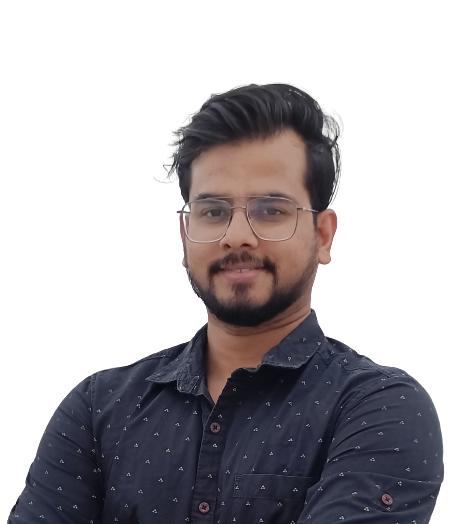
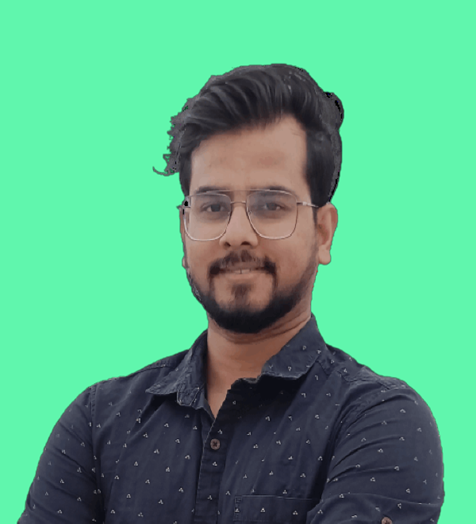
shashank photo edit

diff --git a/about.html b/about.html
@@ -511,8 +511,8 @@
                   </div>
                </div>
             </div>
-            <div class="row">
-               <div class="col-xl-3 col-lg-3 col-md-6 wow tpfadeUp" data-wow-duration=".3s" data-wow-delay=".5s">
+            <div class="row" style="display: flex; justify-content: center; gap: 100px;">
+               <div class="col-xl-6 col-lg-3 col-md-6 wow tpfadeUp" style="height: 300px; width: 300px;" data-wow-duration=".3s" data-wow-delay=".5s">
                   <div class="tpteam mb-30">
                      <div class="tpteam__shape-1">
                         <img src="assets/img/team/team-shape-5.1.png" alt="">
@@ -533,7 +533,7 @@
                      </div>
                   </div>
                </div>
-               <div class="col-xl-3 col-lg-3 col-md-6 wow tpfadeUp" data-wow-duration=".5s" data-wow-delay=".7s">
+               <div class="col-xl-6 col-lg-3 col-md-6 wow tpfadeUp" style="height: 300px; width: 300px; " data-wow-duration=".5s" data-wow-delay=".7s">
                   <div class="tpteam mb-30">
                      <div class="tpteam__shape-1">
                         <img src="assets/img/team/team-shape-5.1.png" alt="">
@@ -541,8 +541,8 @@
                      <div class="tpteam__shape-2">
                         <img src="assets/img/team/team-shape-5.2.png" alt="">
                      </div>
-                     <div class="tpteam__thumb">
-                        <img class="w-100" src="assets/img/team/shashank.jpeg"  alt="">
+                     <div class="tpteam__thumb" >
+                        <img class="w-100"  src="assets/img/team/shashank.jpeg"  alt="">
                      </div>
                      <div class="tpteam__content">
                         <h4 class="tp-team-sm-title"><a href="#">Mr. Shashank Dixit</a></h4>
@@ -554,7 +554,7 @@
                      </div>
                   </div>
                </div>
-               <div class="col-xl-3 col-lg-3 col-md-6 wow tpfadeUp" data-wow-duration=".7s" data-wow-delay=".9s">
+               <!-- <div class="col-xl-3 col-lg-3 col-md-6 wow tpfadeUp" data-wow-duration=".7s" data-wow-delay=".9s">
                   <div class="tpteam mb-30">
                      <div class="tpteam__shape-1">
                         <img src="assets/img/team/team-shape-5.1.png" alt="">
@@ -595,7 +595,7 @@
                         <a href="#"><i class="fab fa-skype"></i></a>
                      </div>
                   </div>
-               </div>
+               </div> -->
                
          </div>
       </div>
